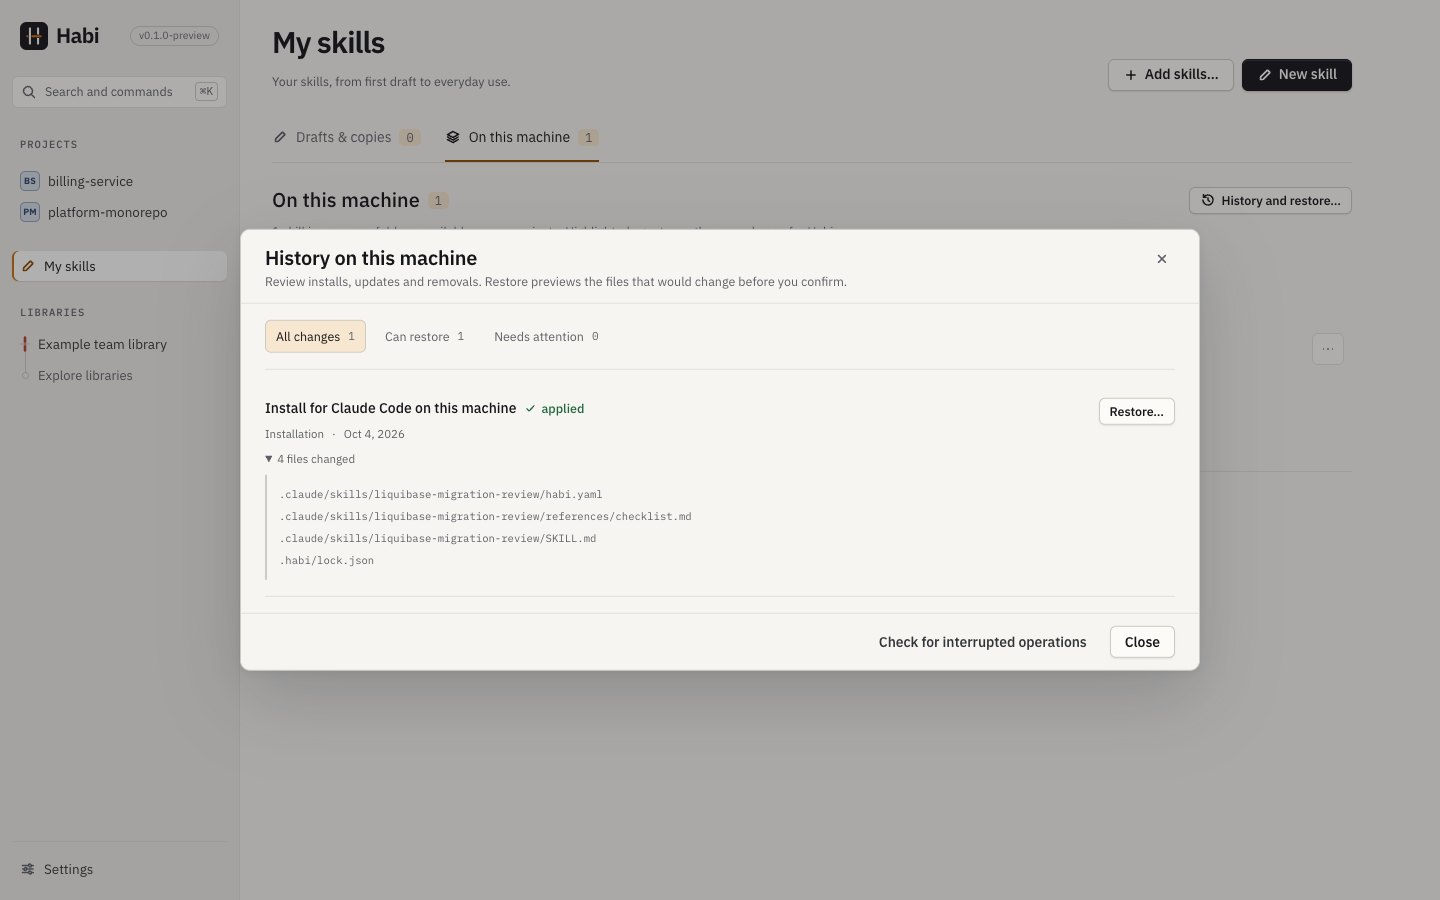
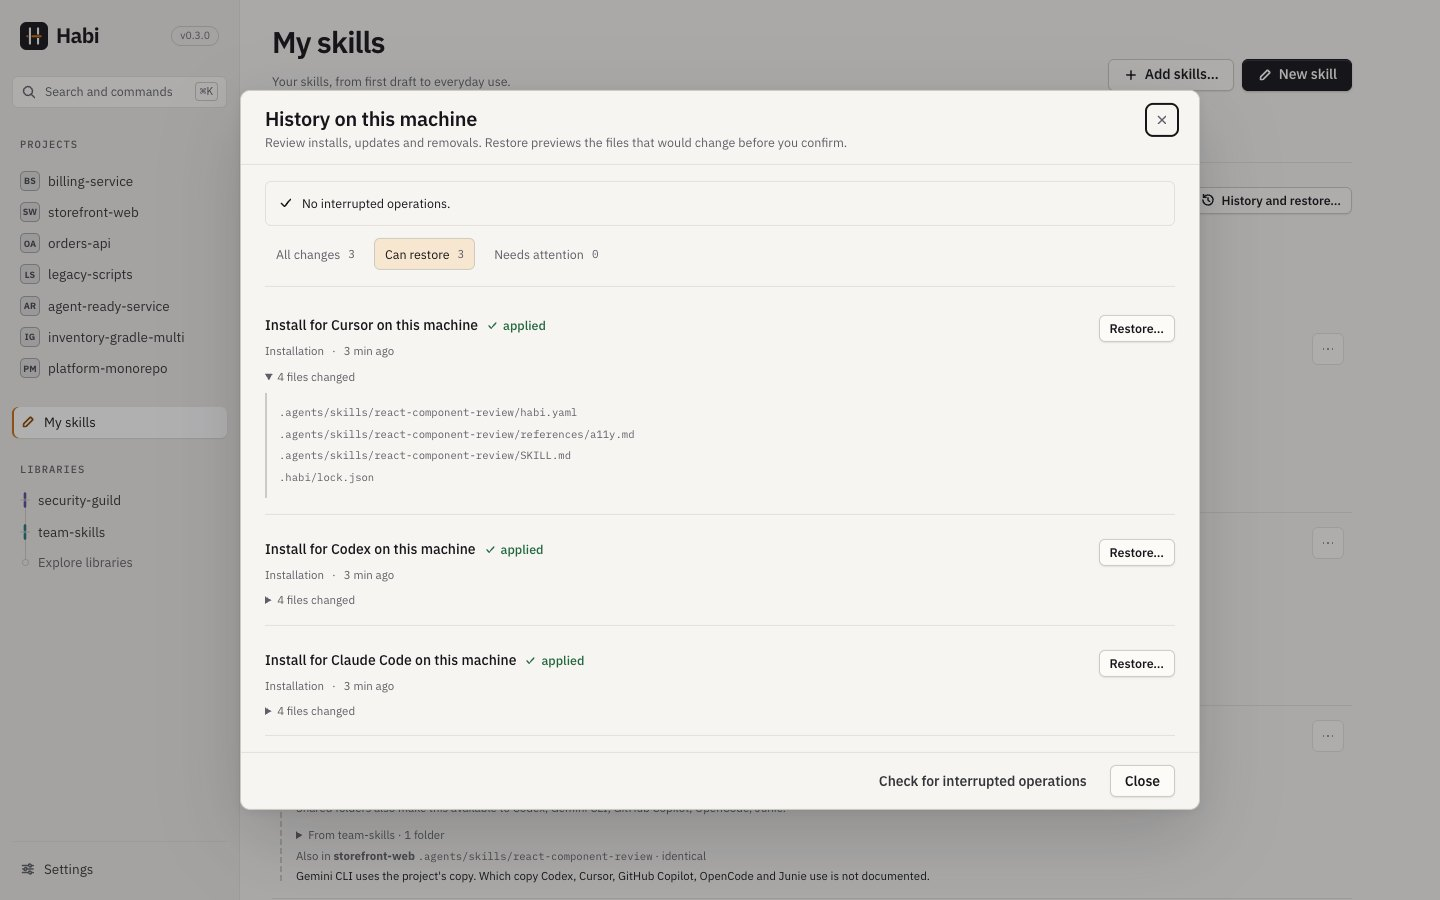
Prepare Habi v0.3.0 with library and machine skill improvements

diff --git a/CHANGELOG.md b/CHANGELOG.md
@@ -7,20 +7,30 @@ All notable changes to Habi are listed here. The format follows
 
 ## Unreleased
 
+## 0.3.0 - 2026-10-26
+
+Find the skills already on your machine, check your libraries when you need to, and reach personal installs and recovery history more easily.
+
+### Added
+
+- **Check a library for updates whenever you need to.** A visible **Check for updates**
+  button reports progress, results, and failures without waiting for the automatic check.
+  Folder libraries offer **Refresh library** to read their latest contents.
+- **See skills already installed on this machine.** Library lists and skill pages mark
+  machine installations, show the agent tools that read them, and link to their management
+  controls. The status refreshes after installing, removing, or updating a library.
+
+### Changed
+
+- **Reach global skills without scrolling past the creation guide.** My skills has
+  Drafts & copies and On this machine collections, with counts and global skill search.
+- **Find the history you need.** Restore and attention filters narrow the list, file paths
+  expand when you need them, and recovery results stay inside the dialog.
+
 ### Fixed
 
 - **Global skill badges reflect your choices.** Skills Habi installed highlight only the
   selected agents. Other agents that can read the same folders are explained separately.
-- **Reach global skills without scrolling past the creation guide.** My skills has
-  Drafts & copies and On this machine collections, with counts and global skill search.
-  History adds restore and attention filters, expandable file paths, and recovery results
-  inside the dialog.
-- **See skills already installed on this machine.** Library lists and skill pages mark
-  machine installations, show the agent tools that read them, and link to their management
-  controls. The status refreshes after installing, removing, or updating a library.
-- **Check a library for updates whenever you need to.** A visible **Check for updates**
-  button reports progress, results, and failures without waiting for the automatic check.
-  Folder libraries offer **Refresh library** to read their latest contents.
 
 ## 0.2.0 - 2026-10-08
 

diff --git a/docs/guide/getting-started.md b/docs/guide/getting-started.md
@@ -98,6 +98,12 @@ When an update is available, **Update** fetches the library's latest contents an
 changed. Installed skills are updated separately through their reviewed plans. For a folder
 library, **Refresh library** reads its current contents directly.
 
+The library also marks skills **on this machine**. Open one to see the agent tools that
+can read it, then choose **Manage installation** to reach its controls in
+[My skills → On this machine](my-skills.md#on-this-machine).
+
+![A connected library showing a manual update check, an available update, and a skill installed on this machine with a link to manage it.](../media/pr-library-status/after.jpg)
+
 ### Focus the recommendations
 
 Below the search field, **Filter by module, library or agent** opens filters for a module,
